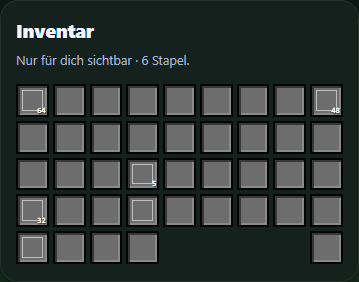
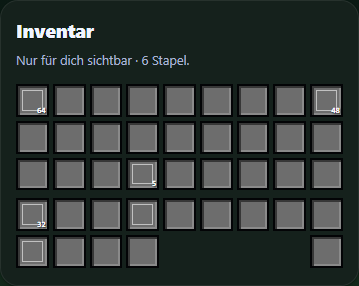
fix(mc): keep the inventory hotbar gap (geometry test), uniform slot tone only

diff --git a/public/mc/profile.css b/public/mc/profile.css
@@ -103,9 +103,8 @@ html.mc #pb .inv .ivg{grid-template-columns:repeat(9,minmax(0,1fr))}
 html.mc #pb .inv .iv-off{grid-column:11;grid-template-columns:minmax(0,1fr);align-self:end;justify-self:stretch}
 html.mc #pb .inv .ivs{box-sizing:border-box;width:100%;height:auto;aspect-ratio:1;min-width:0}
 html.mc #pb .inv .ivs img{width:72%;height:72%;object-fit:contain;object-position:center}
-/* One look for all 41 slots: filled slots use the same tone as empty ones (only the item differs), and the hotbar sits on the same row gap as the rows above. */
+/* One look for all 41 slots: filled slots use the same tone as empty ones (only the item differs) (the hotbar keeps its deliberate gap; columns and size are identical to the rows above). */
 html.mc #pb .inv .ivs,html.mc #pb .inv .ivs.e{background:var(--mc-slot-dim)}
-html.mc #pb .inv .iv-stack{gap:var(--sp1)}
 html.mc #pb .inv .ivs b{font-family:var(--f-px,monospace);color:#fff;text-shadow:1px 1px 2px #000;font-size:.7rem}
 
 @media(max-width:560px){
